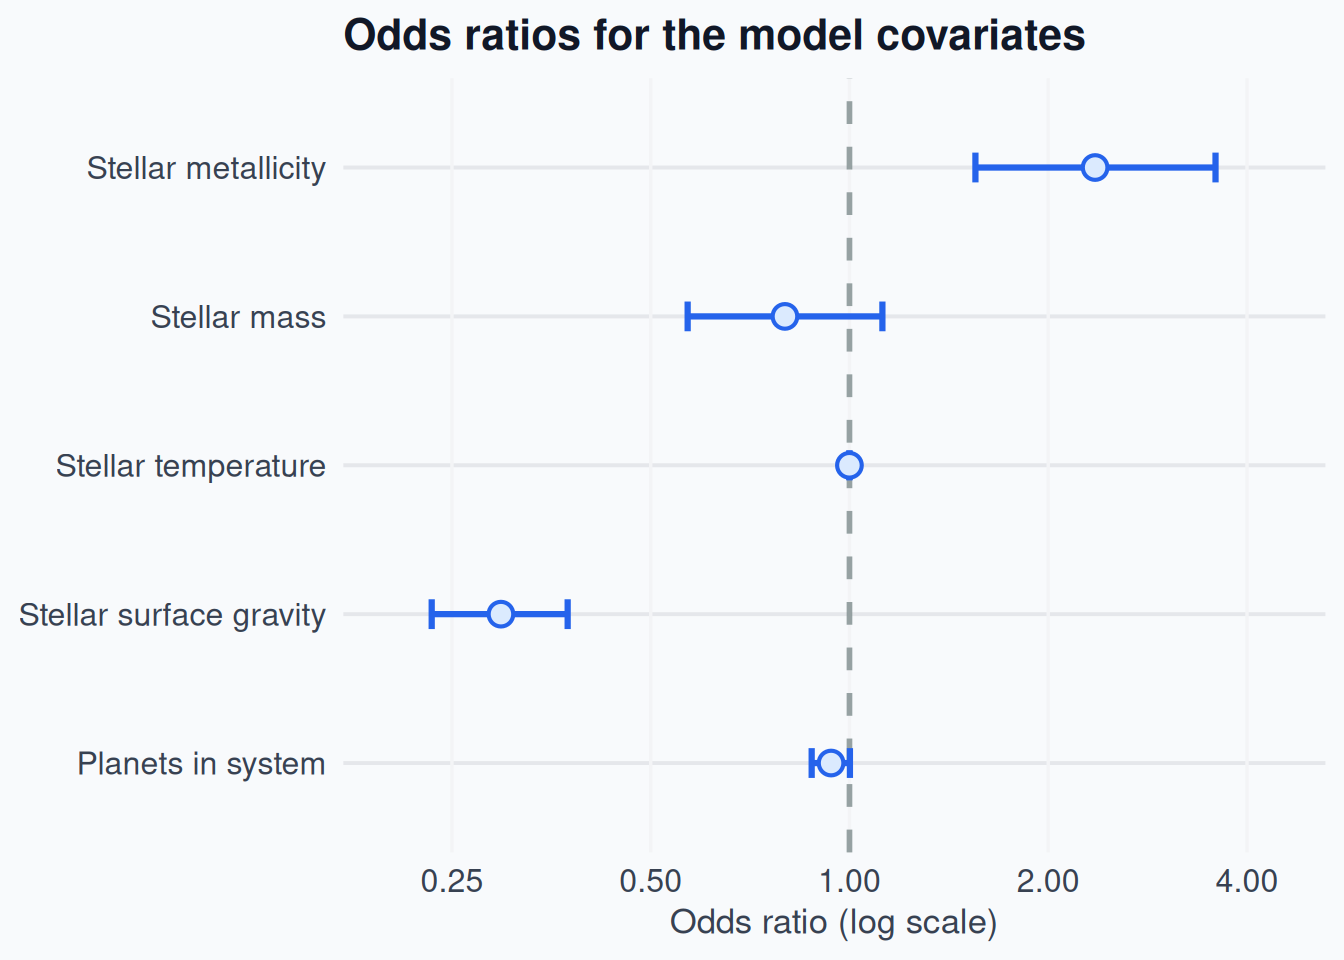
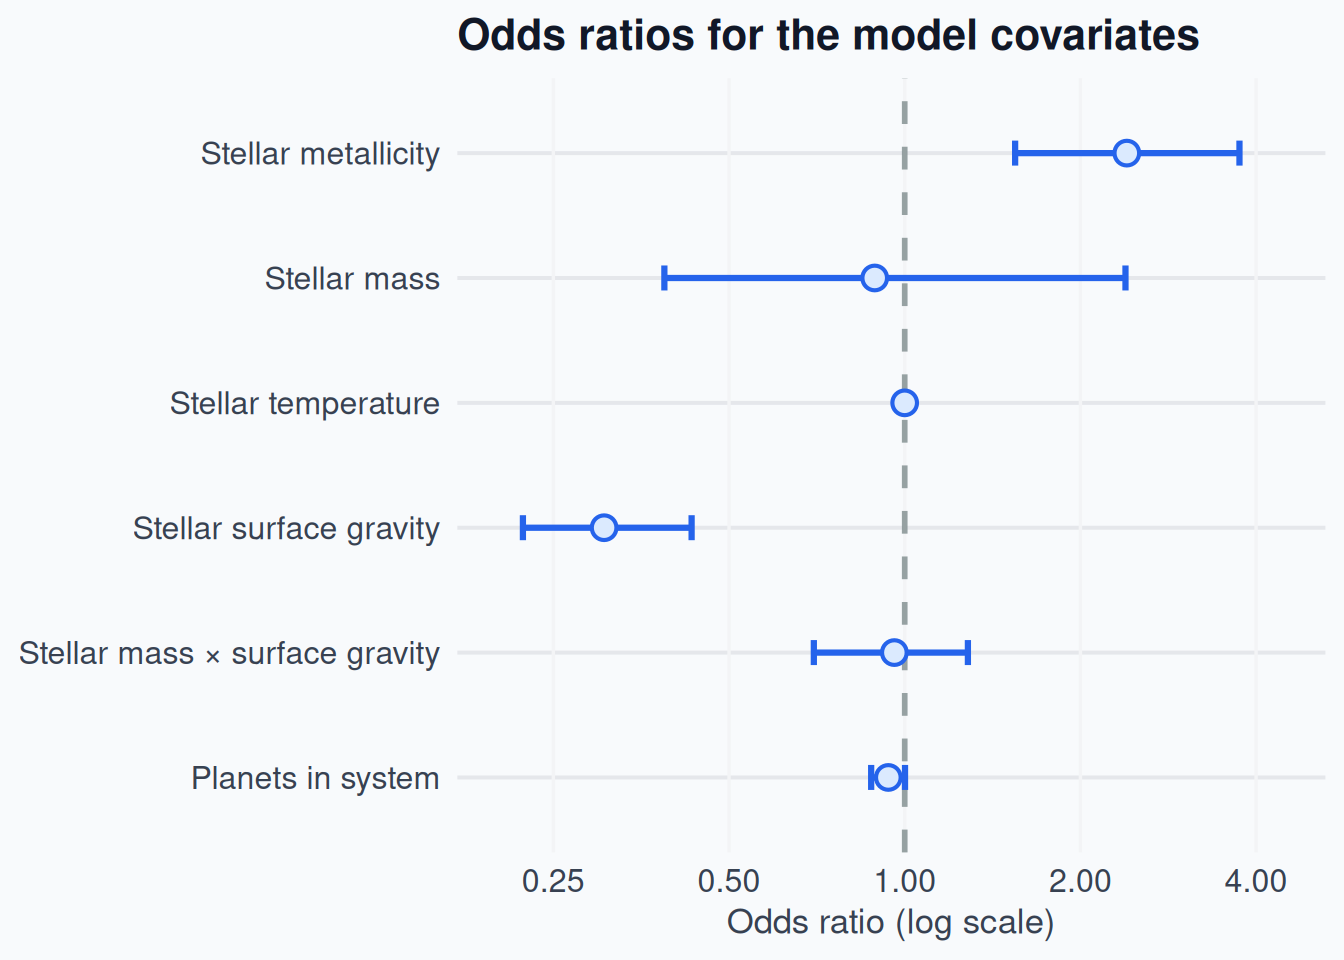
corrected ratios

diff --git a/_site/index.html b/_site/index.html
@@ -147,11 +147,11 @@ ul.task-list li input[type="checkbox"] {
 </header>
 
 
-<p>This project uses a binary logistic regression model to explore whether a handful of stellar and planetary features can help identify systems that are more likely to host eccentric orbits. Eccentric orbits matter because they often make a planet’s climate less stable over time, which can reduce the long-term chances that liquid water and a habitable environment would persist. In that sense, eccentricity is often treated as a warning sign for habitability.</p>
+<p>Eccentric orbits matter because they often make a planet’s climate less stable over time, which can reduce the long-term chances that liquid water and a habitable environment would persist. In that sense, eccentricity is often treated as a warning sign for habitability. To that end, this data analysis project involves the use of a binary logistic regression model to explore whether fundamental stellar system properties can help predict whether exoplanet orbits are eccentric or not. Through this predictive model, I hoped to construct a reliable way to sort exoplanets by orbital eccentricity, allowing astronomers to focus on exoplanets with circular orbits that are more likely to be habitable.</p>
 <p>Further details on the construction and training of the model can be found under the Methodology tab.</p>
 <section id="results" class="level2">
 <h2 class="anchored" data-anchor-id="results">Results</h2>
-<p>The figure below shows the estimated odds ratios for the covariates in the model. Values above 1 mean a predictor is associated with higher odds of an eccentric orbit, while values below 1 mean lower odds, holding the other variables fixed.</p>
+<p>The figure below summarizes the estimated effects of the variables in the model. Values above 1 indicate higher odds of an eccentric orbit, while values below 1 indicate lower odds, holding the other variables fixed. The estimated odds ratio for metallicity is about 2.39, with a 95% confidence interval from about 1.55 to 3.54. The estimated odds ratio for surface gravity is about 0.35, with a 95% confidence interval from about 0.29 to 0.44. I also included an interaction term between stellar mass and surface gravity to test whether their combined effect differs from their separate effects.</p>
 <div class="cell">
 <div class="cell-output-display">
 <div>
@@ -161,7 +161,7 @@ ul.task-list li input[type="checkbox"] {
 </div>
 </div>
 </div>
-<p>Metallicity and surface gravity appear to be the clearest predictors in this model. The estimated odds ratio for metallicity is about 2.36, with a 95% confidence interval from about 1.55 to 3.58, and the surface gravity odds ratio is about 0.30, with a 95% confidence interval from about 0.23 to 0.37. Both intervals exclude 1, so these effects are statistically significant. Stellar temperature is also statistically significant, but its effect is very small in practical terms because its odds ratio is essentially 1.00. Stellar mass and the number of planets in the system are not statistically significant at the 0.05 level here.</p>
+<p>Metallicity and surface gravity were the clearest predictors in this model. The interaction term between stellar mass and surface gravity was small and not statistically significant.</p>
 <div class="cell">
 <div class="cell-output-display">
 <div>
@@ -171,11 +171,11 @@ ul.task-list li input[type="checkbox"] {
 </div>
 </div>
 </div>
-<p>This precision-recall curve shows how well the model finds the eccentric cases without producing too many false alarms. Precision means how many of the cases the model labeled as eccentric were actually eccentric. Recall means how many of the real eccentric cases the model was able to catch. In this project, the curve is only modest, which means the model is not very strong at finding eccentric systems while also avoiding mistakes.</p>
+<p>This precision-recall curve summarizes the trade-off between precision and recall across a range of thresholds. The curve indicates that the model has limited ability to identify eccentric cases while avoiding false positives.</p>
 </section>
 <section id="conclusion" class="level2">
 <h2 class="anchored" data-anchor-id="conclusion">Conclusion</h2>
-<p>This project shows that some broad star-system properties can offer clues about whether a planet is more likely to have an eccentric orbit. In particular, stellar metallicity and surface gravity stand out as having a statistically significant relationship with eccentricity in this model. A simple explanation is that these traits may be tied to the way a star and its planets formed, which can influence the shape and stability of planetary orbits. Still, the model does not do a perfect job because eccentricity is shaped by many other forces as well, including the history of the system, the presence of other planets, and the way planets interact over time. That is why a model built only from basic star-system measurements cannot reliably predict eccentricity on its own.</p>
+<p>This project shows that some broad star-system properties can offer clues about whether a planet is more likely to have an eccentric orbit. In particular, stellar metallicity and surface gravity stand out as the strongest predictors in the model. The interaction term between stellar mass and surface gravity did not add much to the model. The results suggest that basic star-system measurements provide useful information, but they do not fully determine eccentricity.</p>
 
 
 </section>
@@ -254,7 +254,7 @@ ul.task-list li input[type="checkbox"] {
     }
       var localhostRegex = new RegExp(/^(?:http|https):\/\/localhost\:?[0-9]*\//);
       var mailtoRegex = new RegExp(/^mailto:/);
-        var filterRegex = new RegExp('/' + window.location.host + '/');
+        var filterRegex = new RegExp("https:\/\/sp3101-3\.github\.io\/habitable-planets\/");
       var isInternal = (href) => {
           return filterRegex.test(href) || localhostRegex.test(href) || mailtoRegex.test(href);
       }

diff --git a/_site/data_wrangling.html b/_site/data_wrangling.html
@@ -7,7 +7,7 @@
 <meta name="viewport" content="width=device-width, initial-scale=1.0, user-scalable=yes">
 
 
-<title>Data Exploration and Wrangling – Finding Earth 2.0: Stellar Predictors of Habitable Planets</title>
+<title>Data Exploration and Wrangling – Finding Earth 2.0: Predicting Exoplanet Habitability</title>
 <style>
 /* Default styles provided by pandoc.
 ** See https://pandoc.org/MANUAL.html#variables-for-html for config info.
@@ -118,7 +118,7 @@ pre > code.sourceCode > span > a:first-child::before { text-decoration: underlin
       <div class="navbar-container container-fluid">
       <div class="navbar-brand-container mx-auto">
     <a class="navbar-brand" href="./index.html">
-    <span class="navbar-title">Finding Earth 2.0: Stellar Predictors of Habitable Planets</span>
+    <span class="navbar-title">Finding Earth 2.0: Predicting Exoplanet Habitability</span>
     </a>
   </div>
             <div id="quarto-search" class="" title="Search"></div>
@@ -130,6 +130,10 @@ pre > code.sourceCode > span > a:first-child::before { text-decoration: underlin
   <li class="nav-item">
     <a class="nav-link" href="./index.html"> 
 <span class="menu-text">Home</span></a>
+  </li>  
+  <li class="nav-item">
+    <a class="nav-link" href="./methodology.html"> 
+<span class="menu-text">Methodology</span></a>
   </li>  
   <li class="nav-item">
     <a class="nav-link" href="./about.html"> 
@@ -185,7 +189,7 @@ pre > code.sourceCode > span > a:first-child::before { text-decoration: underlin
 <span id="cb1-3"><a href="#cb1-3" aria-hidden="true" tabindex="-1"></a><span class="co"># Read the composite exoplanet data</span></span>
 <span id="cb1-4"><a href="#cb1-4" aria-hidden="true" tabindex="-1"></a>nasa_raw <span class="ot">&lt;-</span> <span class="fu">read_csv</span>(<span class="st">"PSCompPars_2026.07.29_10.50.24.csv"</span>)</span>
 <span id="cb1-5"><a href="#cb1-5" aria-hidden="true" tabindex="-1"></a></span>
-<span id="cb1-6"><a href="#cb1-6" aria-hidden="true" tabindex="-1"></a><span class="co"># Quick check on dimensions</span></span>
+<span id="cb1-6"><a href="#cb1-6" aria-hidden="true" tabindex="-1"></a><span class="co"># Inspect the data structure</span></span>
 <span id="cb1-7"><a href="#cb1-7" aria-hidden="true" tabindex="-1"></a><span class="fu">glimpse</span>(nasa_raw)</span></code></pre></div><button title="Copy to Clipboard" class="code-copy-button"><i class="bi"></i></button></div>
 <div class="cell-output cell-output-stdout">
 <pre><code>Rows: 6,652
@@ -271,7 +275,7 @@ $ `# This file was produced by the NASA Exoplanet Archive  http://exoplanetarchi
     }
       var localhostRegex = new RegExp(/^(?:http|https):\/\/localhost\:?[0-9]*\//);
       var mailtoRegex = new RegExp(/^mailto:/);
-        var filterRegex = new RegExp('/' + window.location.host + '/');
+        var filterRegex = new RegExp("https:\/\/sp3101-3\.github\.io\/habitable-planets\/");
       var isInternal = (href) => {
           return filterRegex.test(href) || localhostRegex.test(href) || mailtoRegex.test(href);
       }

diff --git a/_site/methodology.html b/_site/methodology.html
@@ -285,7 +285,7 @@ sy_pnum      0.9401483  0.8788457   1.0038519</code></pre>
     }
       var localhostRegex = new RegExp(/^(?:http|https):\/\/localhost\:?[0-9]*\//);
       var mailtoRegex = new RegExp(/^mailto:/);
-        var filterRegex = new RegExp('/' + window.location.host + '/');
+        var filterRegex = new RegExp("https:\/\/sp3101-3\.github\.io\/habitable-planets\/");
       var isInternal = (href) => {
           return filterRegex.test(href) || localhostRegex.test(href) || mailtoRegex.test(href);
       }

diff --git a/_site/about.html b/_site/about.html
@@ -219,7 +219,7 @@ ul.task-list li input[type="checkbox"] {
     }
       var localhostRegex = new RegExp(/^(?:http|https):\/\/localhost\:?[0-9]*\//);
       var mailtoRegex = new RegExp(/^mailto:/);
-        var filterRegex = new RegExp('/' + window.location.host + '/');
+        var filterRegex = new RegExp("https:\/\/sp3101-3\.github\.io\/habitable-planets\/");
       var isInternal = (href) => {
           return filterRegex.test(href) || localhostRegex.test(href) || mailtoRegex.test(href);
       }
